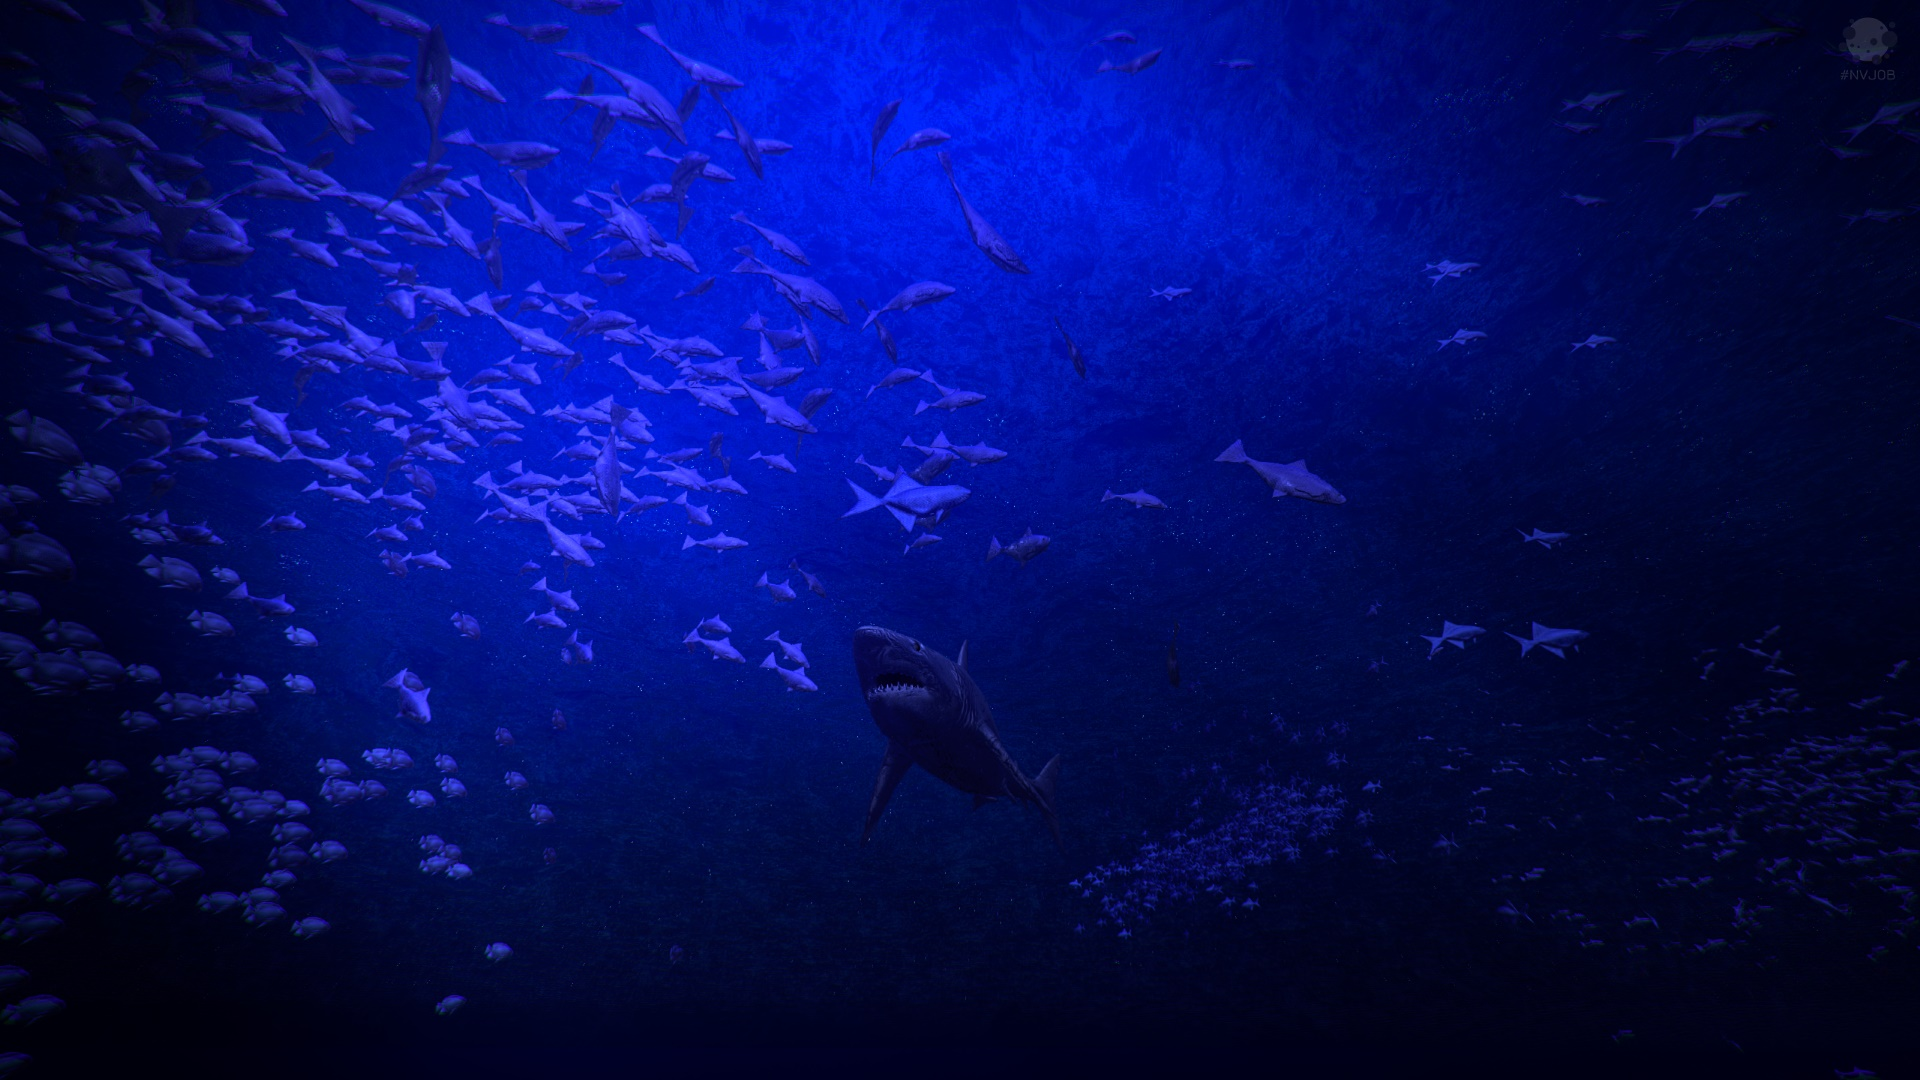
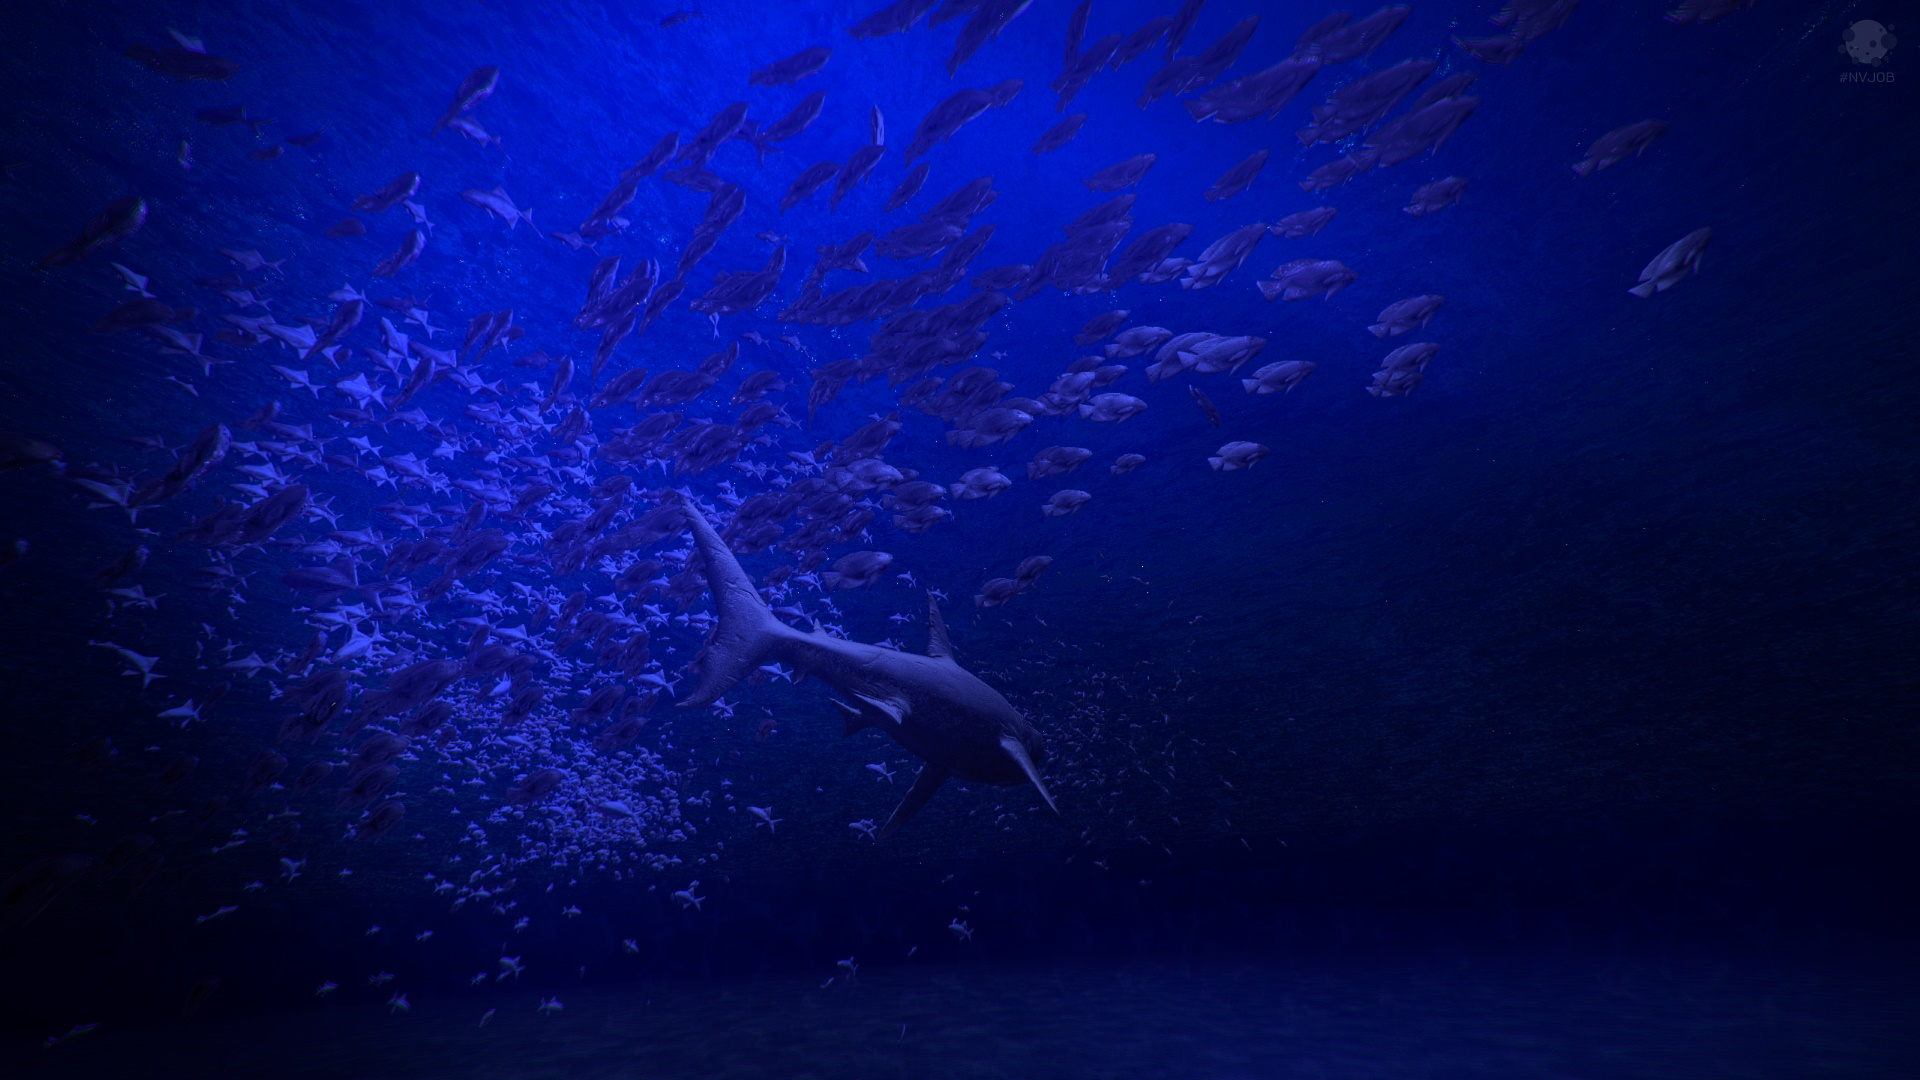
up

diff --git a/unity/nvjob-boids.html b/unity/nvjob-boids.html
@@ -285,9 +285,9 @@ Export the model to FBX with the specified parameters.
 <img src="/repo/unity%20assets/nvjob%20boids/scr/Fish%20Boids%203.jpg"/>
 
 <br/><br/>
-<img src="/repo/unity%20assets/nvjob%20boids/scr/Fish%20Boids%20Danger%204.jpg"/>
+<img src="/repo/unity%20assets/nvjob%20boids/scr/Fish%20Boids%20Danger%201.jpg"/>
 <br/><br/>
-<img src="/repo/unity%20assets/nvjob%20boids/scr/Fish%20Boids%20Danger%207.jpg"/>
+<img src="/repo/unity%20assets/nvjob%20boids/scr/Fish%20Boids%20Danger%202.jpg"/>
 
 
 
